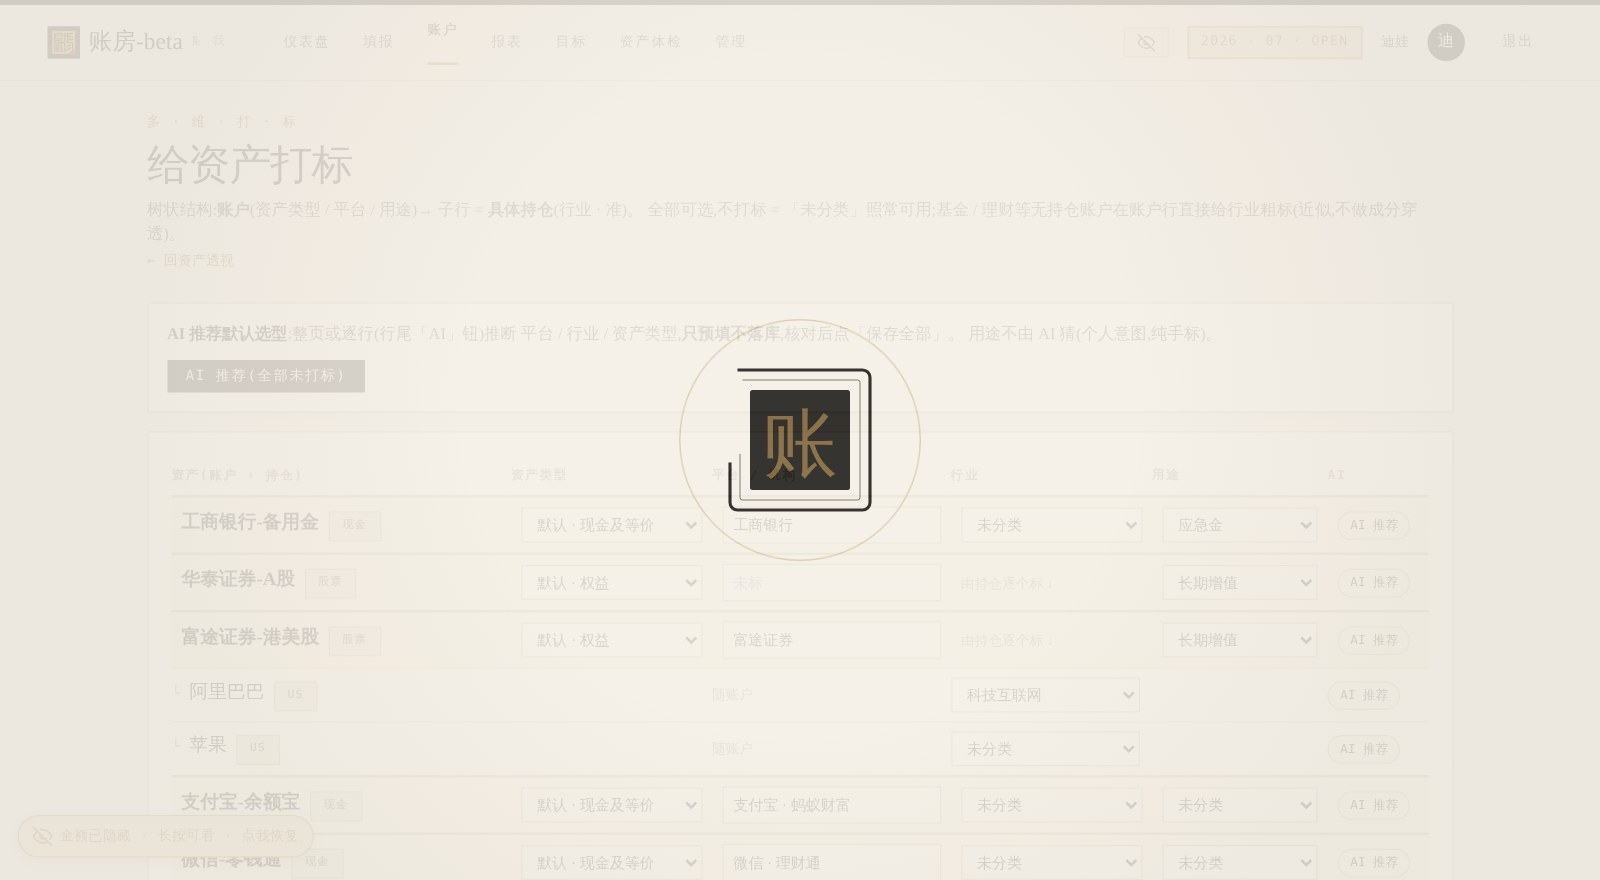
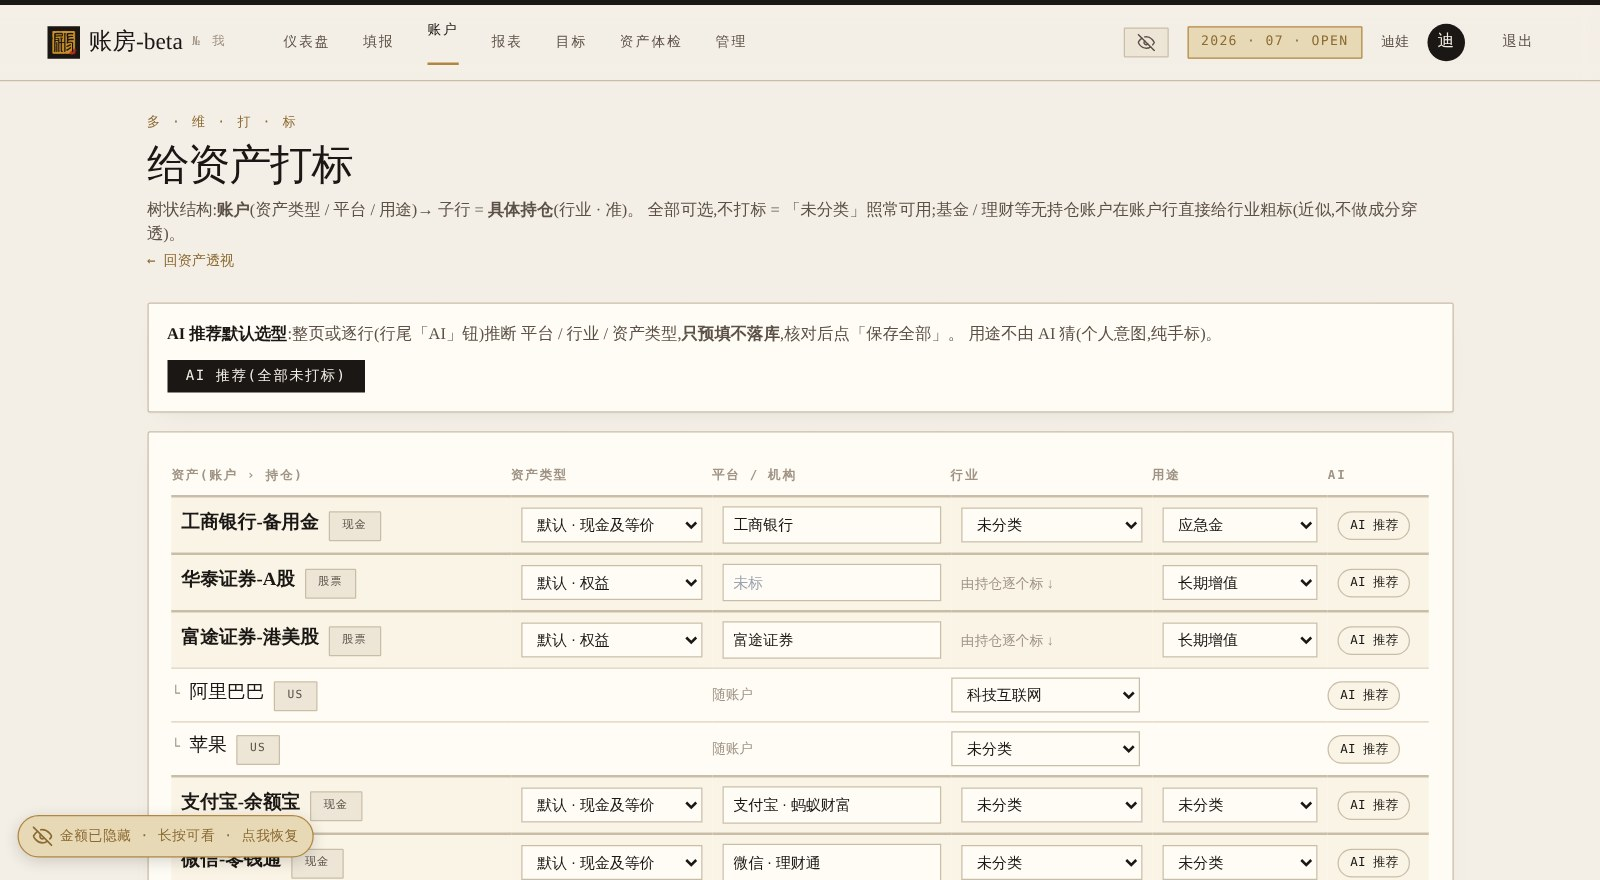
docs(readme) · 功能截图排版修复:打标图重拍(等印章遮罩消失)+ 桌面3列提密度 + 移动6图固定118px根治列宽不齐 + lens图?v=2绕camo缓存

diff --git a/README.md b/README.md
@@ -67,16 +67,14 @@
 
 <table>
   <tr>
-    <td width="50%"><img src="docs/screenshots/pc_dashboard.jpg" alt="仪表盘"><br><sub><b>仪表盘</b> · 净资产趋势(CPI 购买力线 + M2 社会财富线)+ 资产配置环形 + KPI 横条</sub></td>
-    <td width="50%"><img src="docs/screenshots/pc_ai_analysis.jpg" alt="AI 综合诊断"><br><sub><b>AI 综合诊断</b> · 总评 + 配置 / 风险 / 流动性 / 收益 四维卡 + 优先行动(数字工程算,LLM 只解读)</sub></td>
+    <td width="33%"><img src="docs/screenshots/pc_dashboard.jpg" alt="仪表盘"><br><sub><b>仪表盘</b> · 净资产趋势(CPI 购买力线 + M2 社会财富线)+ 配置环形 + KPI</sub></td>
+    <td width="33%"><img src="docs/screenshots/pc_ai_analysis.jpg" alt="AI 综合诊断"><br><sub><b>AI 综合诊断</b> · 总评 + 四维卡 + 优先行动(数字工程算,LLM 只解读)</sub></td>
+    <td width="33%"><img src="docs/screenshots/pc_lens.jpg?v=2" alt="资产透视"><br><sub><b>资产透视</b> · 旭日下钻 + 交叉透视表 + 钻到持仓明细 · 6 块预设看板 · 同维值同色</sub></td>
   </tr>
   <tr>
-    <td width="50%"><img src="docs/screenshots/pc_account.jpg" alt="账户簿"><br><sub><b>账户簿</b> · 6 类账户 · 按成员归集 · 划转 / 体检 / 账本 / 一键导出</sub></td>
-    <td width="50%"><img src="docs/screenshots/pc_setting.jpg" alt="可运营管理页"><br><sub><b>可运营管理页</b> · 品牌 / 成员 / 周期 / 提醒 / 汇率 / 数据源 / 阈值 共 14 项 · 改即热生效不重启</sub></td>
-  </tr>
-  <tr>
-    <td width="50%"><img src="docs/screenshots/pc_lens.jpg" alt="资产透视"><br><sub><b>资产透视</b> · 旭日多层下钻 + Excel 式交叉透视(热力 + 小计)+ 钻到持仓明细 · 6 块预设看板 + 自定义 · 同一维值全局同色</sub></td>
-    <td width="50%"><img src="docs/screenshots/pc_lens_tags.jpg" alt="多维打标"><br><sub><b>多维打标</b> · 账户 › 持仓树状 · 资产类型 / 平台 / 行业 / 用途 · AI 推荐(按底层投向 · 显式接受才落库)</sub></td>
+    <td width="33%"><img src="docs/screenshots/pc_account.jpg" alt="账户簿"><br><sub><b>账户簿</b> · 6 类账户 · 按成员归集 · 划转 / 体检 / 账本 / 一键导出</sub></td>
+    <td width="33%"><img src="docs/screenshots/pc_setting.jpg" alt="可运营管理页"><br><sub><b>可运营管理页</b> · 品牌 / 成员 / 周期 / 汇率 / 数据源等 14 项 · 改即热生效</sub></td>
+    <td width="33%"><img src="docs/screenshots/pc_lens_tags.jpg?v=2" alt="多维打标"><br><sub><b>多维打标</b> · 账户 › 持仓树状 · 资产类型 / 平台 / 行业 / 用途 · AI 按底层投向推荐</sub></td>
   </tr>
 </table>
 
@@ -84,12 +82,12 @@
 
 <table>
   <tr>
-    <td width="17%"><img src="docs/screenshots/mobilez_dashboard.jpg" alt="移动端仪表盘"></td>
-    <td width="17%"><img src="docs/screenshots/mobile_account.jpg" alt="移动端填报"></td>
-    <td width="17%"><img src="docs/screenshots/mobile_analysis.jpg" alt="移动端资产体检"></td>
-    <td width="17%"><img src="docs/screenshots/mobile_ai_analysis.jpg" alt="移动端 AI 调仓"></td>
-    <td width="17%"><img src="docs/screenshots/mobile_lens.jpg" alt="移动端资产透视"></td>
-    <td width="17%"><img src="docs/screenshots/mobile_ios_deck.jpg" alt="iOS 主屏 PWA"></td>
+    <td align="center"><img src="docs/screenshots/mobilez_dashboard.jpg" width="118" alt="移动端仪表盘"></td>
+    <td align="center"><img src="docs/screenshots/mobile_account.jpg" width="118" alt="移动端填报"></td>
+    <td align="center"><img src="docs/screenshots/mobile_analysis.jpg" width="118" alt="移动端资产体检"></td>
+    <td align="center"><img src="docs/screenshots/mobile_ai_analysis.jpg" width="118" alt="移动端 AI 调仓"></td>
+    <td align="center"><img src="docs/screenshots/mobile_lens.jpg?v=2" width="118" alt="移动端资产透视"></td>
+    <td align="center"><img src="docs/screenshots/mobile_ios_deck.jpg" width="118" alt="iOS 主屏 PWA"></td>
   </tr>
   <tr>
     <td align="center"><sub>仪表盘 · 洞察速览</sub></td>
